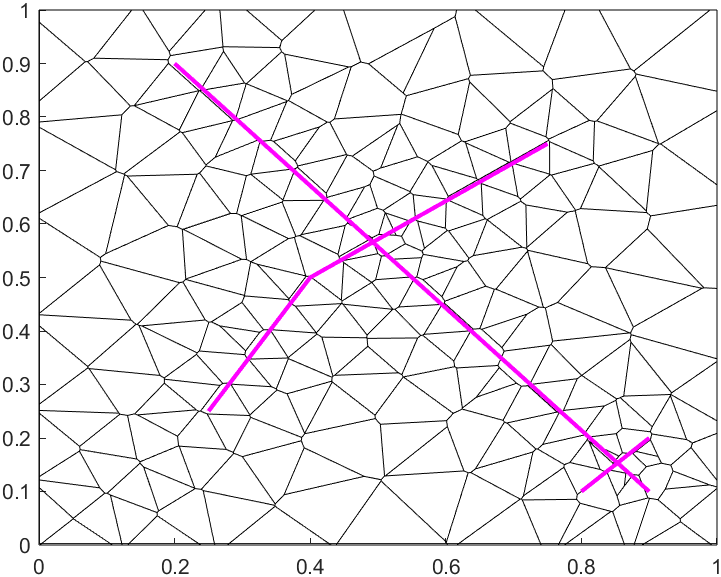
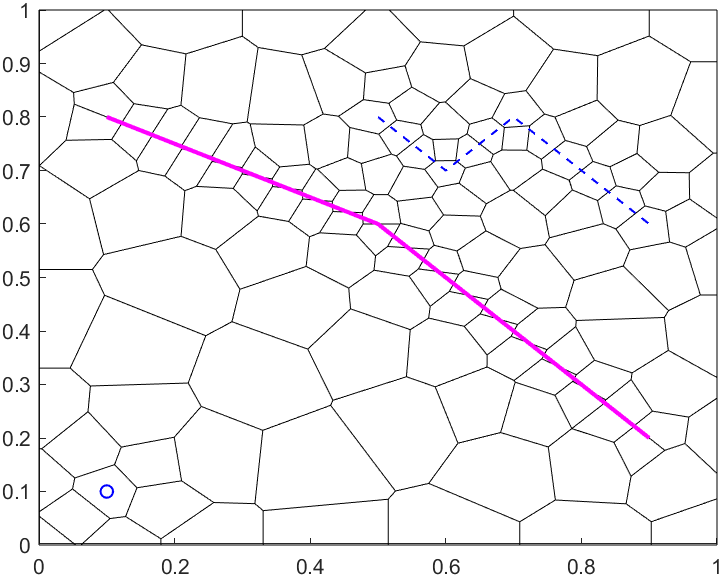
Rerun all examples on new code

diff --git a/code/gmsh_to_mrst/exampleClippedPebi2DGmsh.m b/code/gmsh_to_mrst/exampleClippedPebi2DGmsh.m
@@ -1,29 +1,33 @@
 %% Example of pebiGrid2DGmsh usage
 % Create a simple 2D mesh using Gmsh, called from MATLAB
-
+clear all;
 % Setup required variables
 resGridSize = 0.2;
 domain = [1 1];
-faceConstraints.a.x = [0.25 0.4 0.75];
-faceConstraints.a.y = [0.25 0.5 0.75];
-faceConstraints.b.x = [0.8 0.9];
-faceConstraints.b.y = [0.1 0.2];
-faceConstraints.theseCanHaveAnyNames.x = [0.2 0.9];
-faceConstraints.theseCanHaveAnyNames.y = [0.9 0.1];
-faceConstraints.alsoWorksWithSinglePoints.x = 0.1;
-faceConstraints.alsoWorksWithSinglePoints.y = 0.1;
+faceConstraints.x = [0.1 0.5 0.9];
+faceConstraints.y = [0.8 0.6 0.2];
+
+cellConstraints.a.x = 0.1;
+cellConstraints.a.y = 0.1;
+cellConstraints.b.x = [0.5 0.6 0.7 0.9];
+cellConstraints.b.y = [0.8 0.7 0.8 0.6];
 
 % pebiGrid2DGmsh returns a single variable, G
-G = clippedPebi2DGmsh(resGridSize, domain, faceConstraints);
+G = clippedPebi2DGmsh( ...
+    resGridSize, ...
+    domain, ...
+    'faceConstraints', faceConstraints, ...
+    'cellConstraints', cellConstraints ...
+);
 
 % Plot result
 hold on;
 plotGrid(G, 'faceColor', 'none');
 
 % Plot lines
-plot(faceConstraints.a.x, faceConstraints.a.y, 'lineWidth', 2, 'color', 'magenta', 'markersize', 3);
-plot(faceConstraints.b.x, faceConstraints.b.y, 'lineWidth', 2, 'color', 'magenta', 'markersize', 3);
-plot(faceConstraints.theseCanHaveAnyNames.x, faceConstraints.theseCanHaveAnyNames.y, 'lineWidth', 2, 'color', 'magenta', 'markersize', 3);
+plot(faceConstraints.x, faceConstraints.y, 'lineWidth', 2, 'color', 'magenta', 'markersize', 3);
+plot(cellConstraints.a.x, cellConstraints.a.y, 'LineWidth', 1, 'Color', 'blue', 'LineStyle','--', Marker='o');
+plot(cellConstraints.b.x, cellConstraints.b.y, 'LineWidth', 1, 'Color', 'blue', 'LineStyle','--');
 
 % Save plot
 f = gcf;

diff --git a/code/gmsh_to_mrst/examplePebiGrid2DGmsh.m b/code/gmsh_to_mrst/examplePebiGrid2DGmsh.m
@@ -1,6 +1,6 @@
 %% Example of pebiGrid2DGmsh usage
 % Create a simple 2D mesh using Gmsh, called from MATLAB
-
+clear all;
 % Setup required variables
 resGridSize = 0.2;
 domain = [1, 1];
